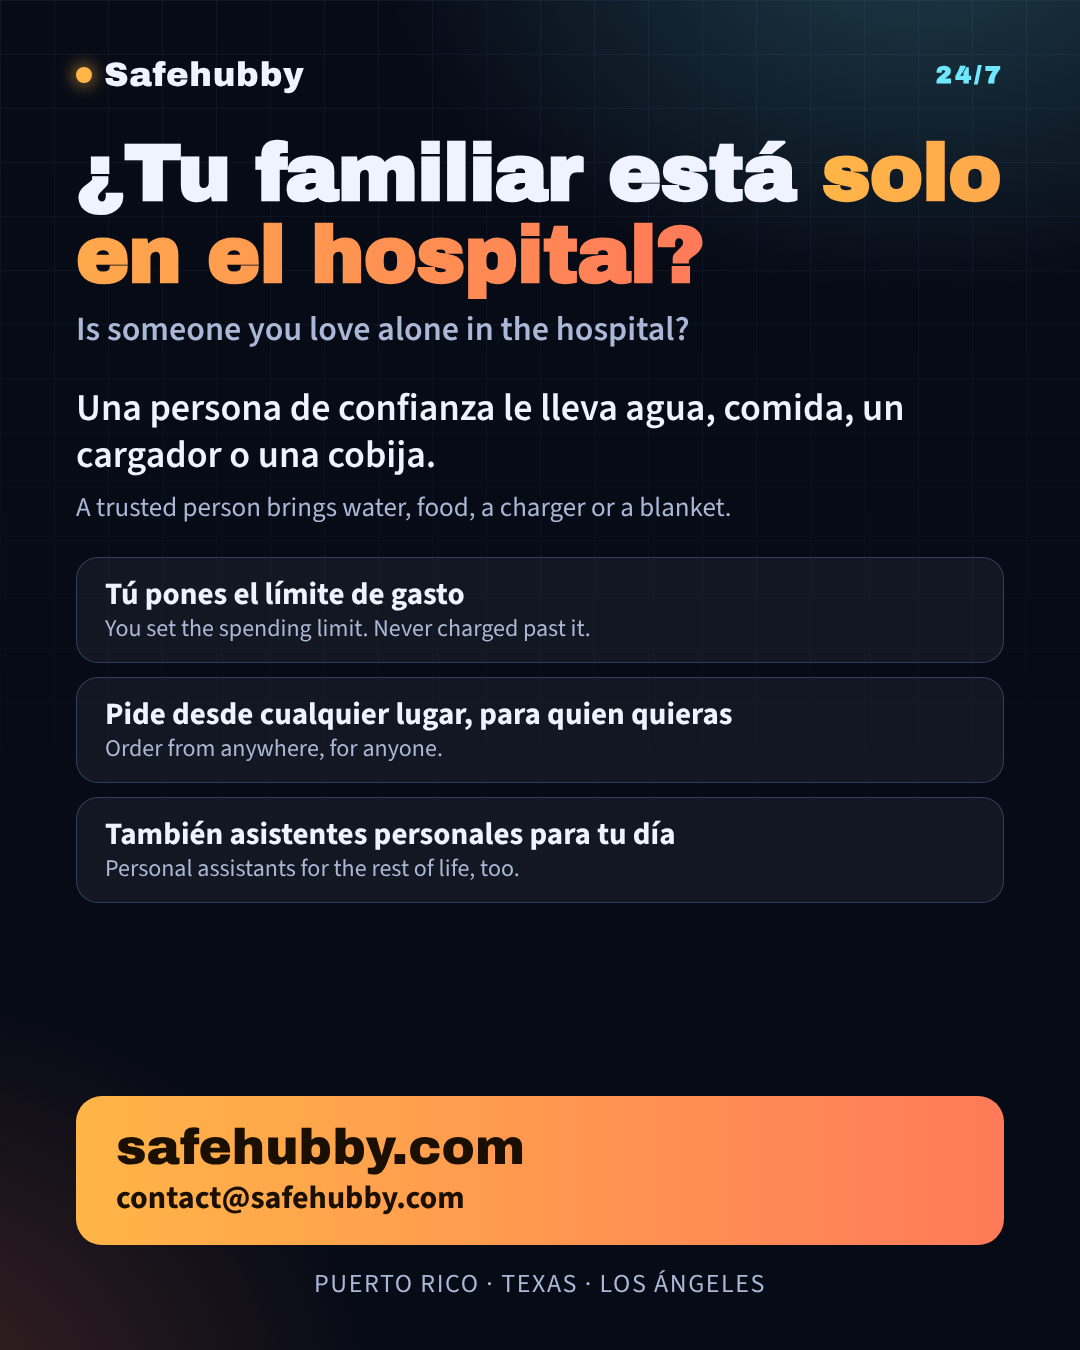
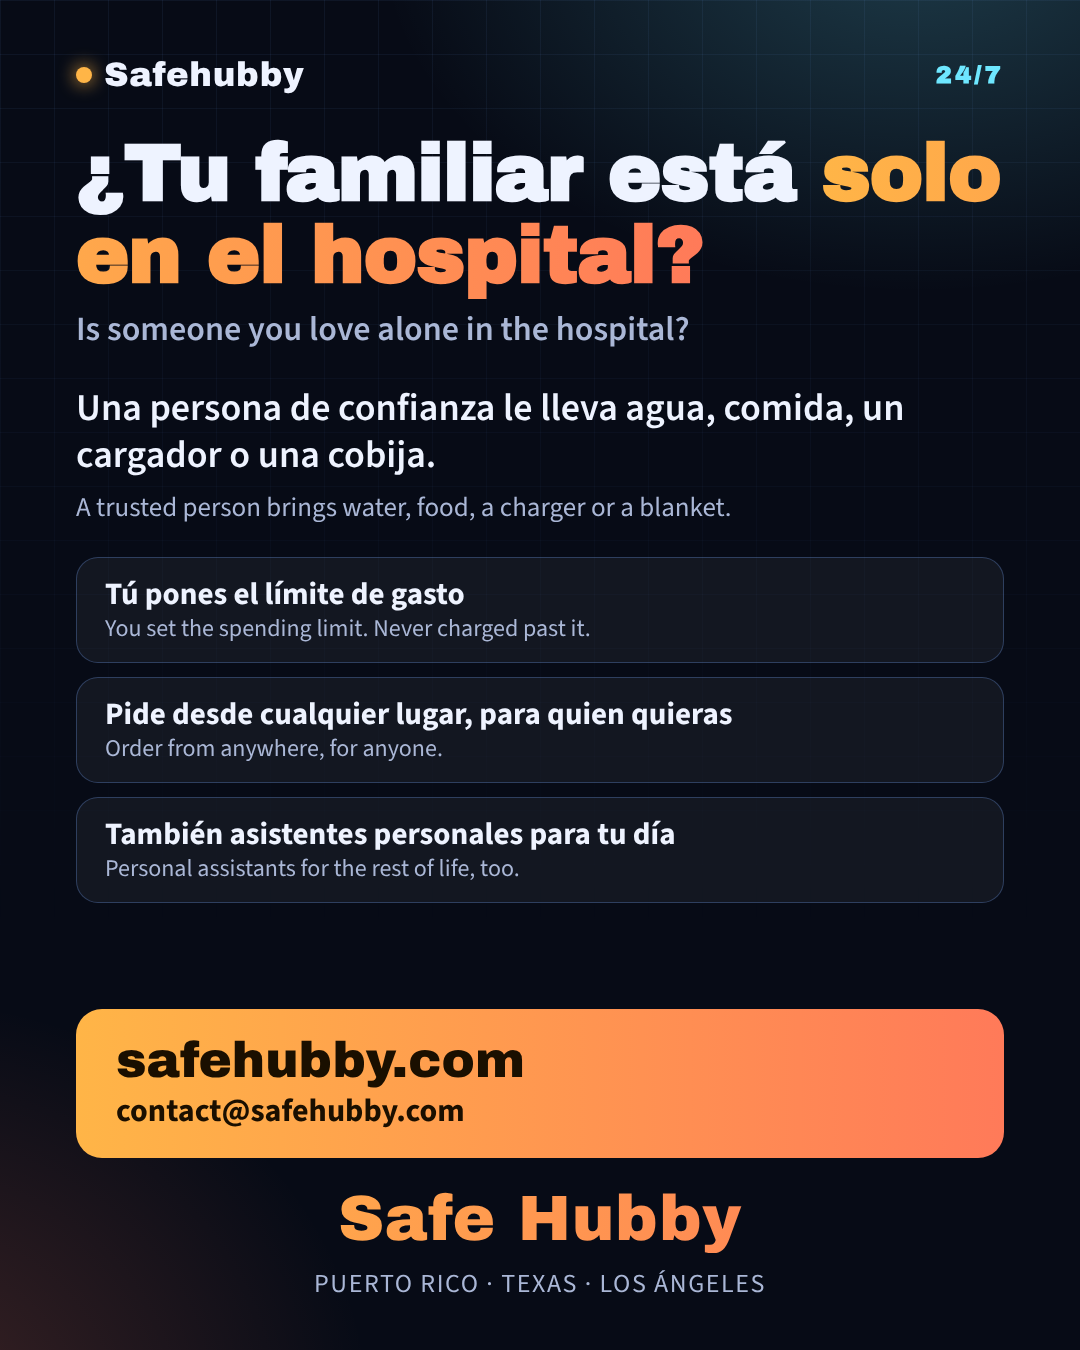
Flyers: standalone Safe Hubby wordmark at the bottom
Claude-Session: https://claude.ai/code/session_012ezDbPSsECyyCdR3sdEwf7

Changed region(s): [[0.0611, 0.7467, 0.9472, 0.9333]]

diff --git a/docs/marketing/flyers/flyer.css b/docs/marketing/flyers/flyer.css
@@ -30,3 +30,5 @@ li small{display:block;font-size:24px;font-weight:400;color:var(--soft);margin-t
 .cta b{font-family:'Archivo Black';font-size:50px;display:block;font-weight:400}
 .cta span{font-size:32px;font-weight:700}
 .where{margin-top:20px;font-size:26px;color:var(--soft);letter-spacing:.06em;text-align:center}
+.wordmark{font-family:'Archivo Black';font-size:64px;text-align:center;margin-top:26px;letter-spacing:.01em;background:linear-gradient(90deg,var(--amber),var(--coral));-webkit-background-clip:text;color:transparent}
+.where{margin-top:12px!important}

diff --git a/docs/marketing/flyers/hiring.html b/docs/marketing/flyers/hiring.html
@@ -13,5 +13,6 @@
  </ul>
  <div class="spacer"></div>
  <div class="cta"><b>safehubby.com/work</b><span>contact@safehubby.com</span></div>
+ <p class="wordmark">Safe Hubby</p>
  <p class="where">PUERTO RICO · TEXAS · LOS ÁNGELES</p>
 </main></body></html>

diff --git a/docs/marketing/flyers/customers.html b/docs/marketing/flyers/customers.html
@@ -13,5 +13,6 @@
  </ul>
  <div class="spacer"></div>
  <div class="cta"><b>safehubby.com</b><span>contact@safehubby.com</span></div>
+ <p class="wordmark">Safe Hubby</p>
  <p class="where">PUERTO RICO · TEXAS · LOS ÁNGELES</p>
 </main></body></html>
